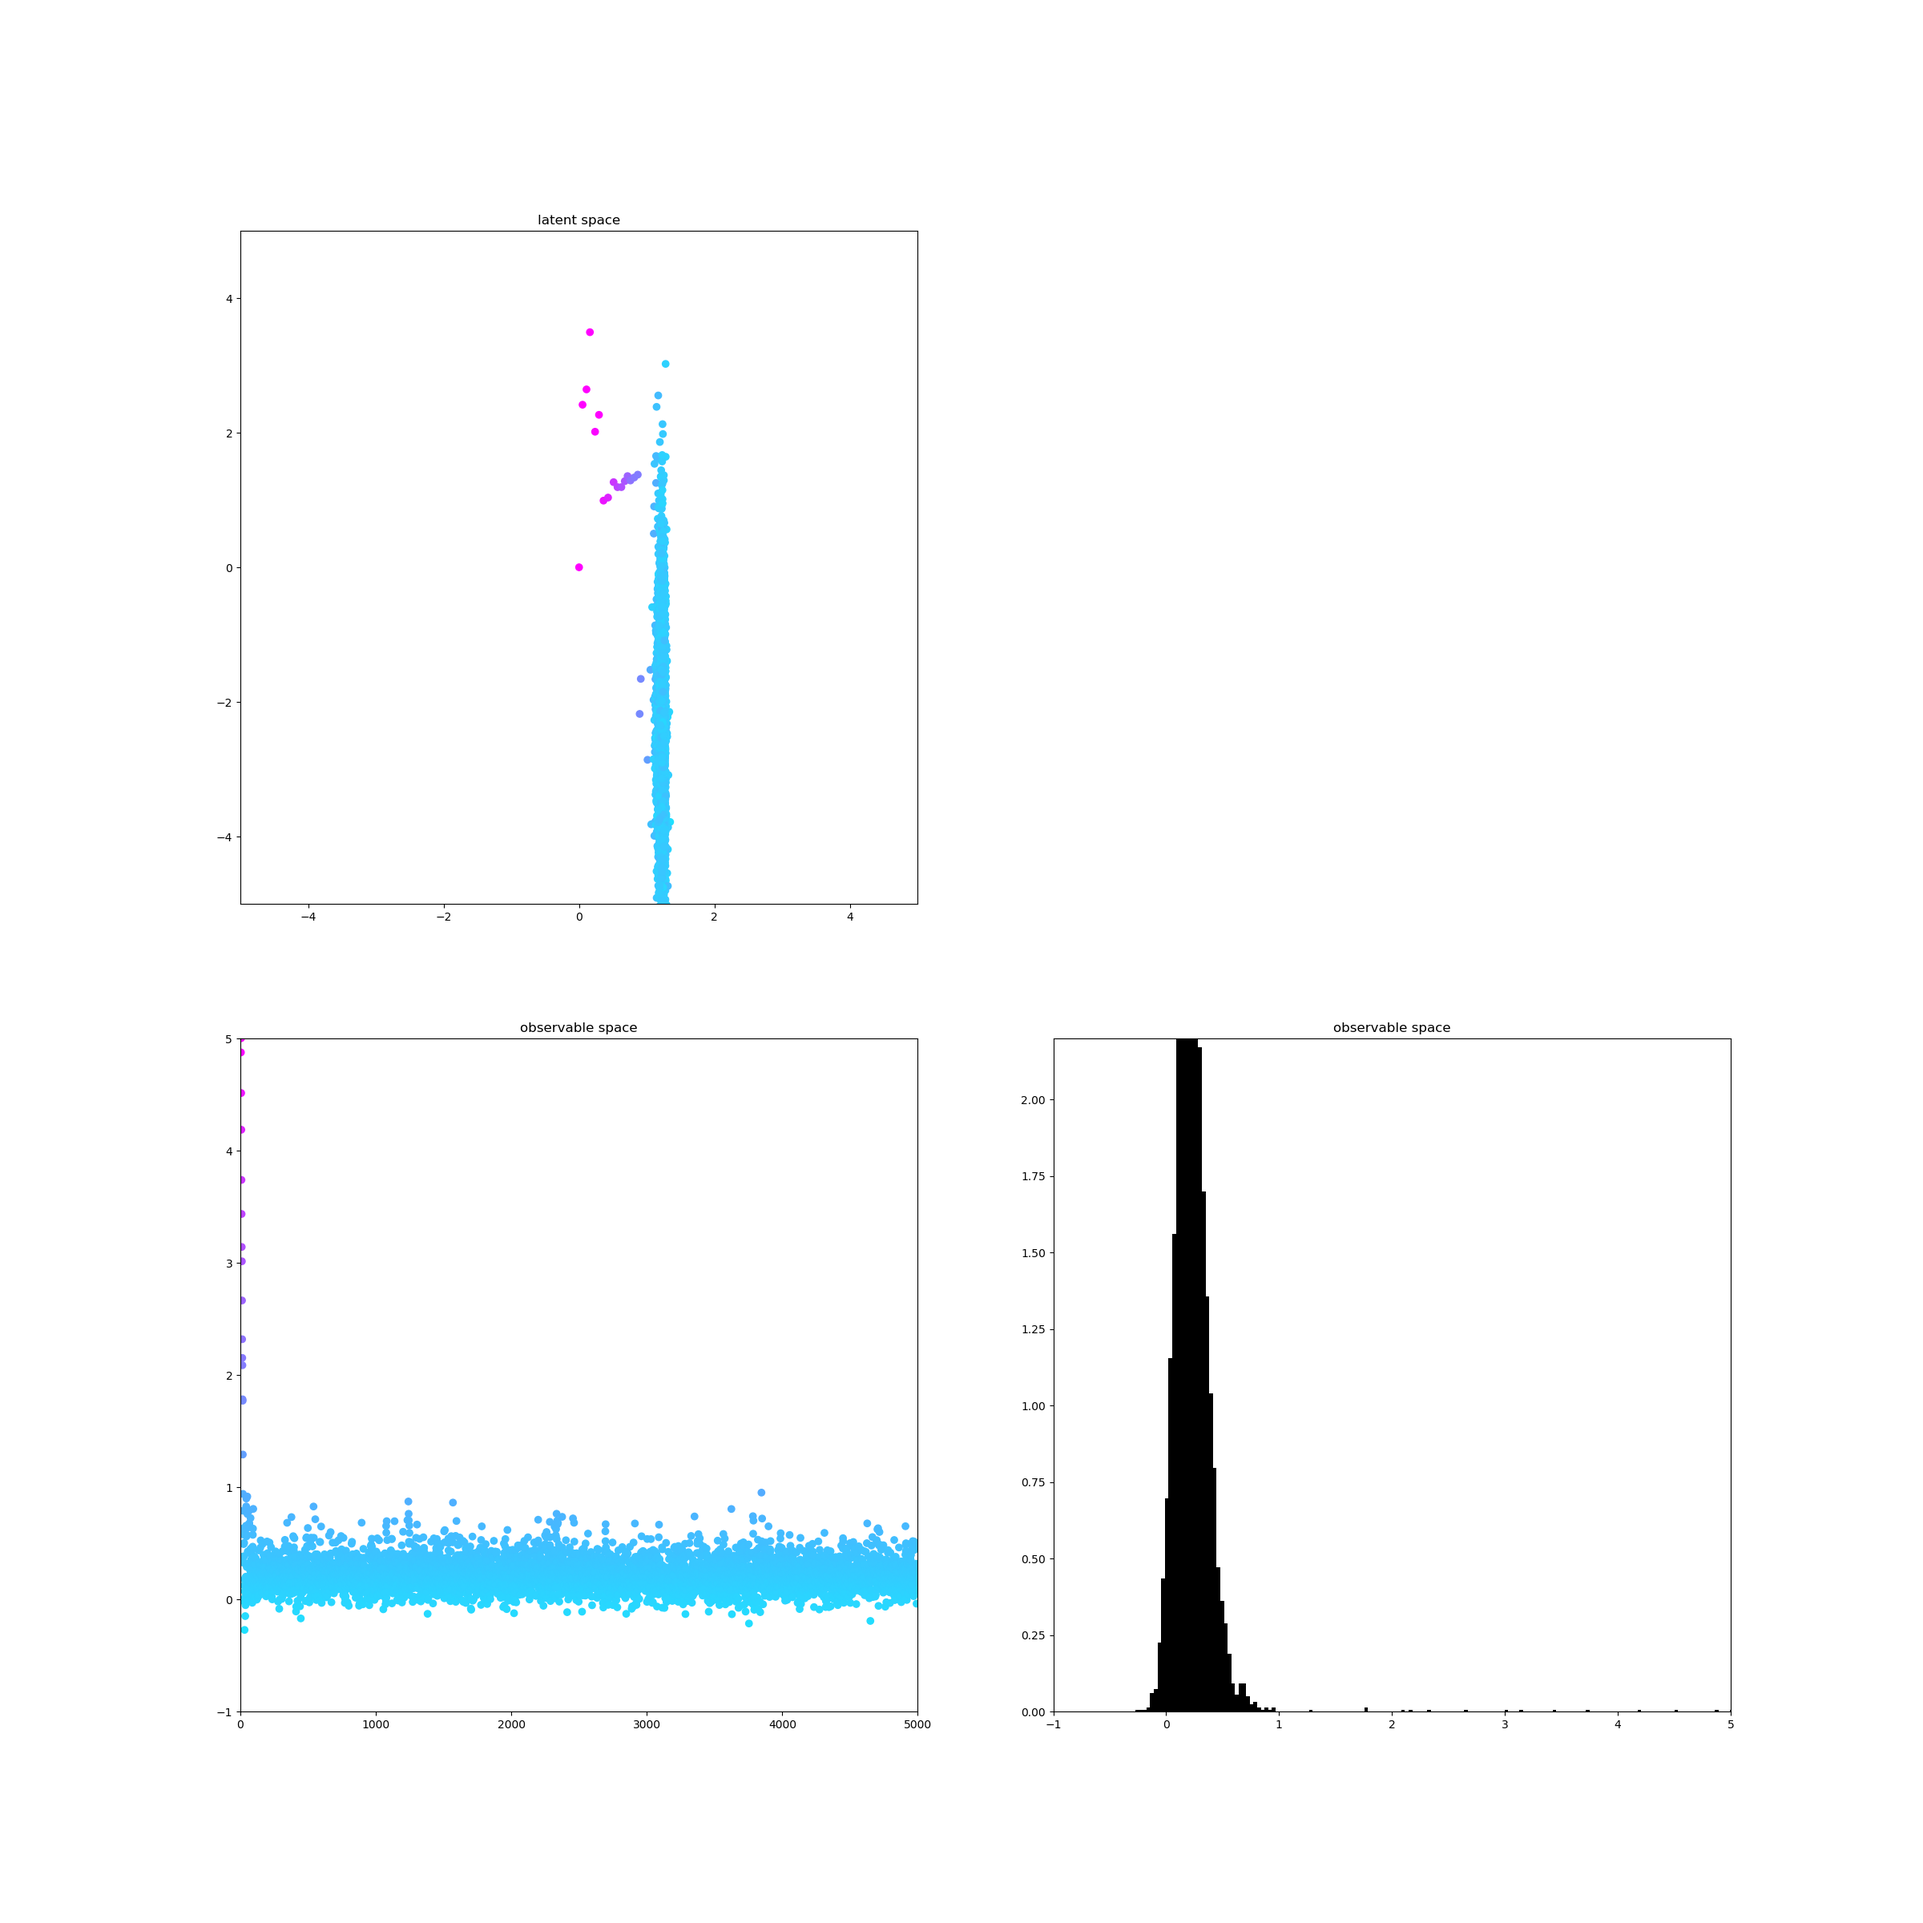
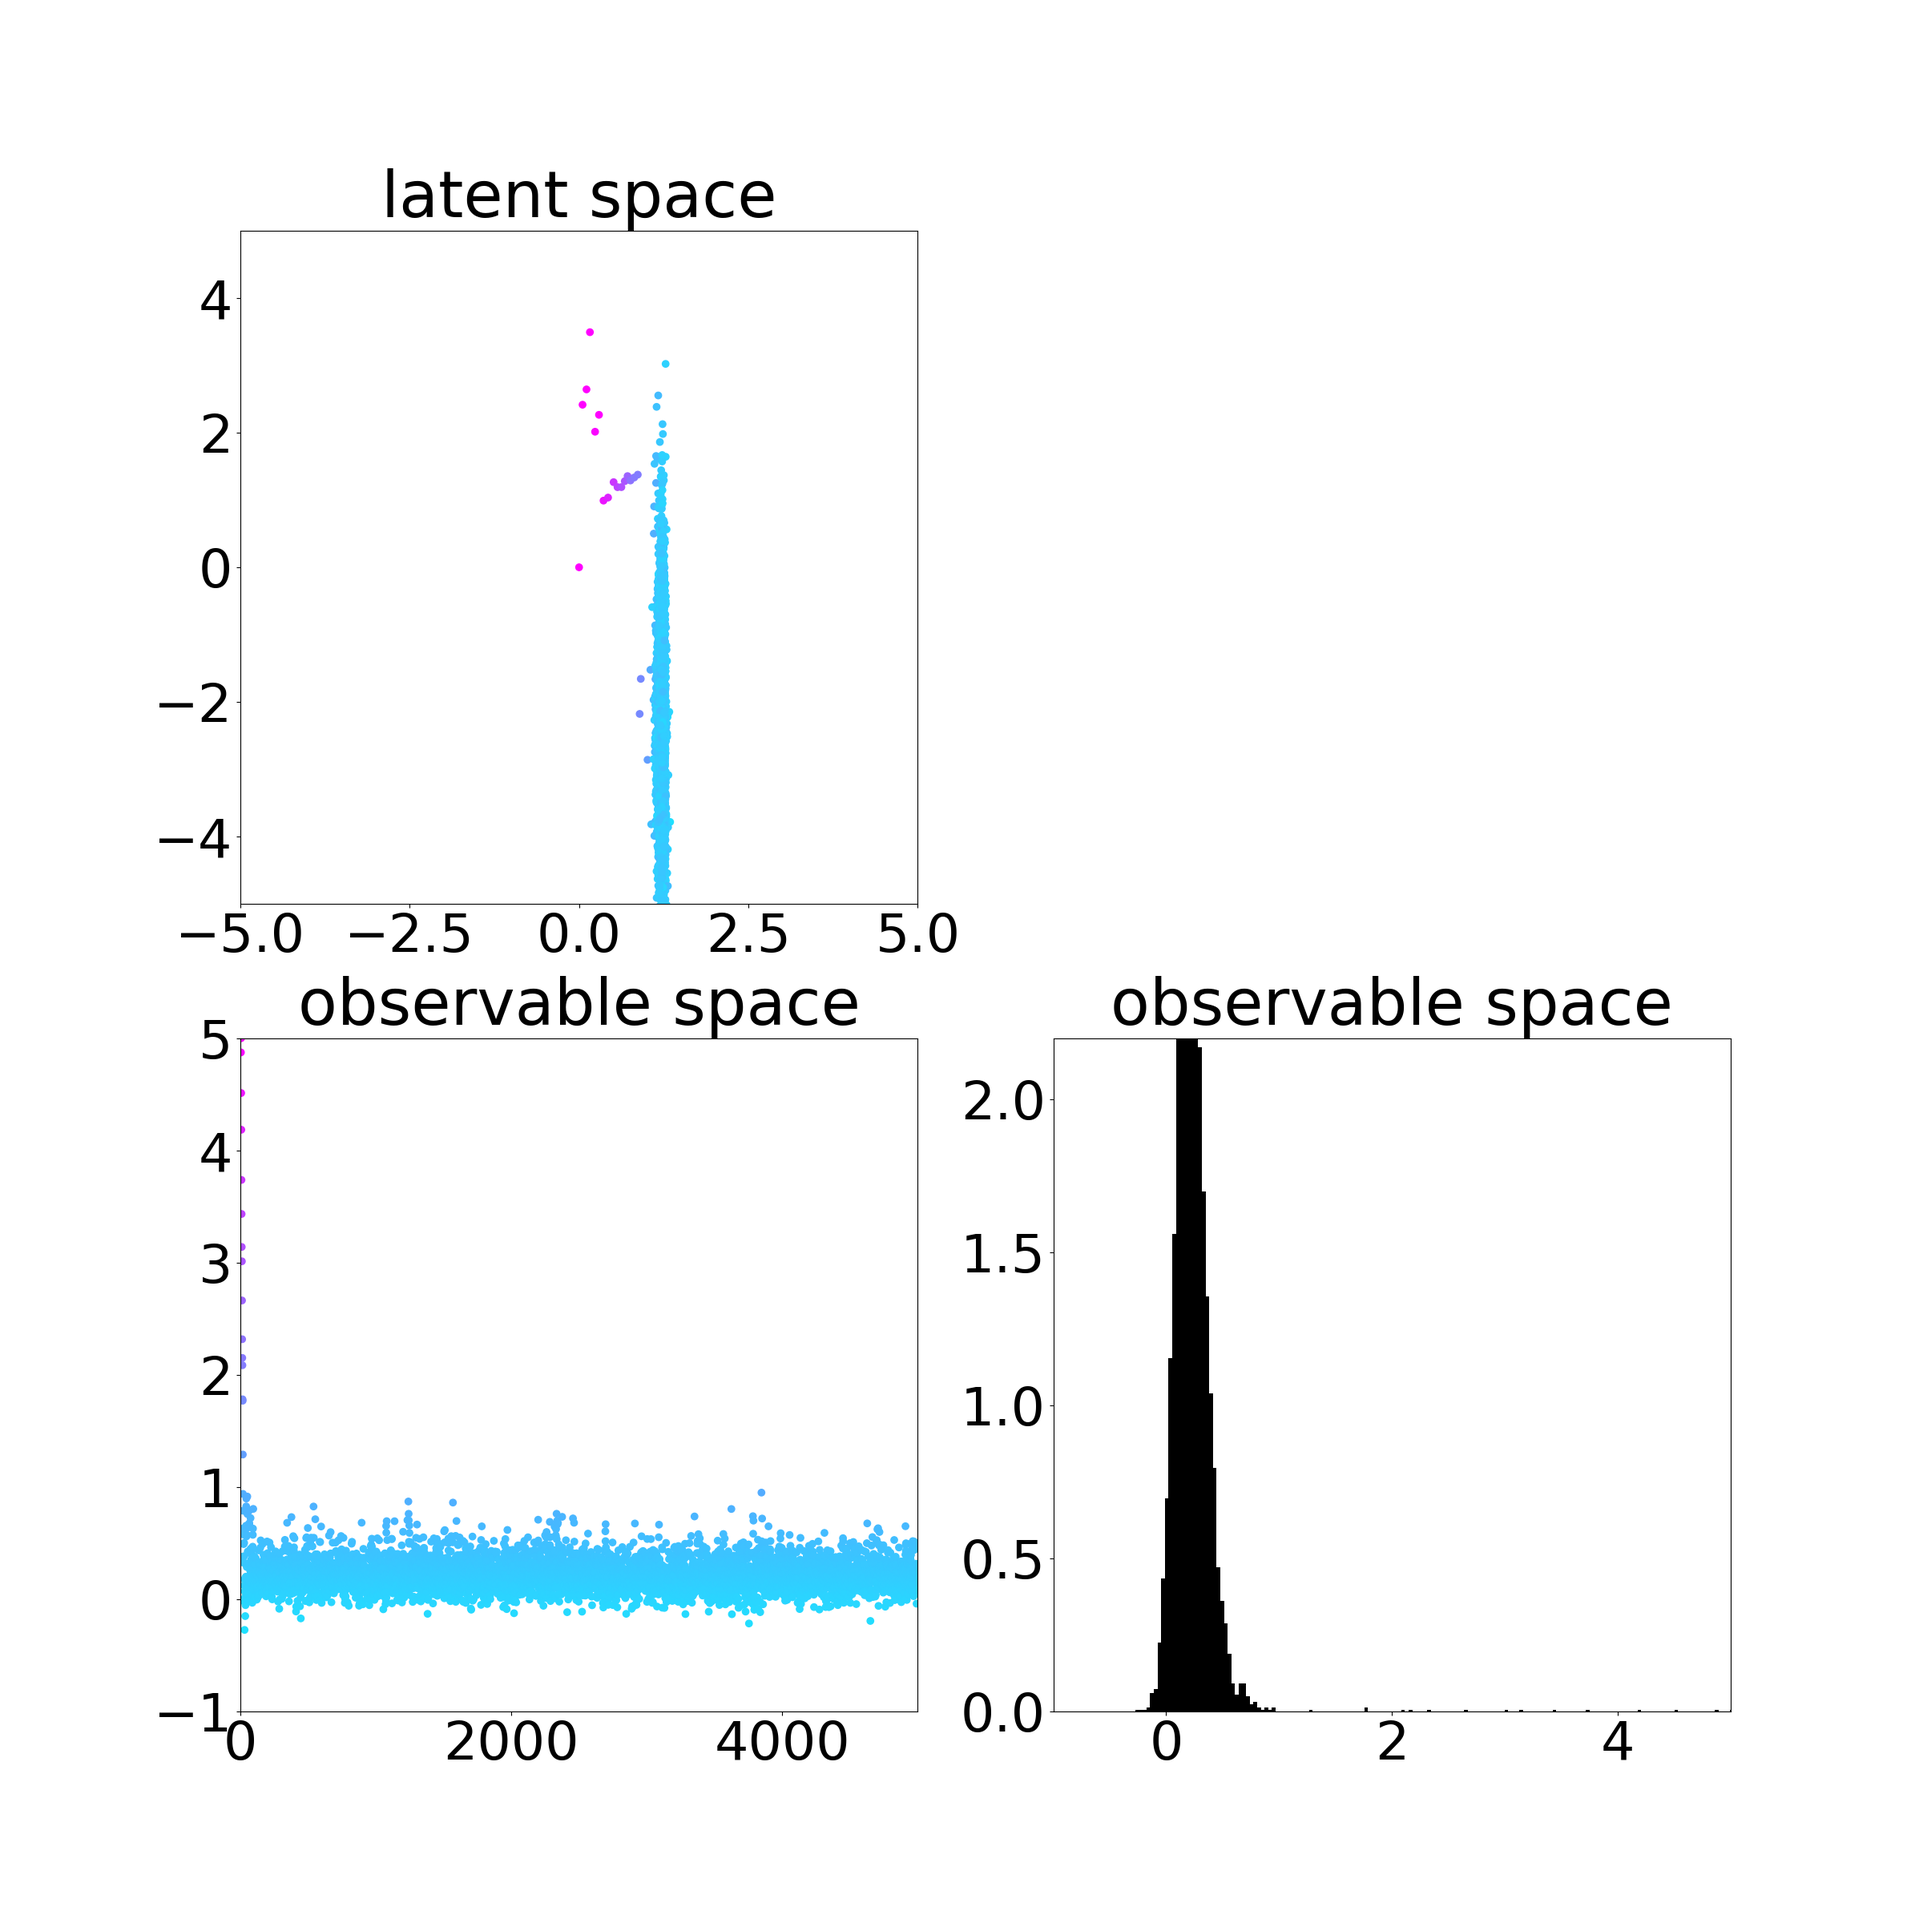
20201218

diff --git a/script/plot_infer.py b/script/plot_infer.py
@@ -8,8 +8,15 @@ import numpy as np
 def plot_infer(infer_jbl,infer_image):
     data = joblib.load(infer_jbl)
     fig = plt.figure(figsize=(24.0,24.0))
+    plt.title("latent space",fontsize=48)
+    plt.xlim(-5.0,5.0)
+    plt.ylim(-5.0,5.0)
+    plt.xlabel("dim-0/1", size = 48, weight = "light")
+    plt.ylabel("dim-0/2", size = 48, weight = "light")
+    plt.xticks(fontsize=48)
+    plt.yticks(fontsize=48)
     for i in range(100):
-        z_traj = data["z_params"][0][i]
+        z_traj = data["z_s"][i]
         x_traj = data["obs_params"][0][i]  
         plt.scatter(z_traj[:100,0],z_traj[:100,1],vmin=-1.0,vmax=5.0,c=x_traj[:100,0],cmap="cool")
     fig.savefig(infer_image)

diff --git a/adw_gen/dataset/make_data_adw.py b/adw_gen/dataset/make_data_adw.py
@@ -6,6 +6,14 @@ def make_data_train():
     datapoints = int(49999)
     traj = data_generator.get_asymmetric_double_well_data(datapoints)
     data_train_npy = np.expand_dims(traj, 1)
+    fig = plt.figure(figsize=(24.0,24.0))
+    plt.title("probability of existence",fontsize=48)
+    plt.xlim(-1.0,5.0)
+    plt.ylim(0.0,1.1)
+    plt.xticks(fontsize=48)
+    plt.yticks(fontsize=48)
+    plt.hist(data_train_npy[:,0],bins=200,density=True,color="black")
+    fig.savefig("data_hist.png")
     data_train_npy = np.reshape(data_train_npy, (-1, 100, 1))
     np.save('data_train.npy', data_train_npy)
     print("data_train")

diff --git a/script/plot_filter.py b/script/plot_filter.py
@@ -10,12 +10,14 @@ def plot_filter(filter_jbl,filter_image):
     z_traj = data["z"][1][0]
     x_traj = data["mu"][1][0]
     fig = plt.figure(figsize=(24.0,24.0))
+    plt.rcParams["font.size"] = 48
     ax1 = fig.add_subplot(2,2,1)
     ax3 = fig.add_subplot(2,2,3)
     ax4 = fig.add_subplot(2,2,4)
     ax1.set_title("latent space")
     ax1.set_xlim(-5.0,5.0)
     ax1.set_ylim(-5.0,5.0)
+    
     ax3.set_title("observable space")
     ax3.set_xlim(0,5000)
     ax3.set_ylim(-1.0,5.0)
